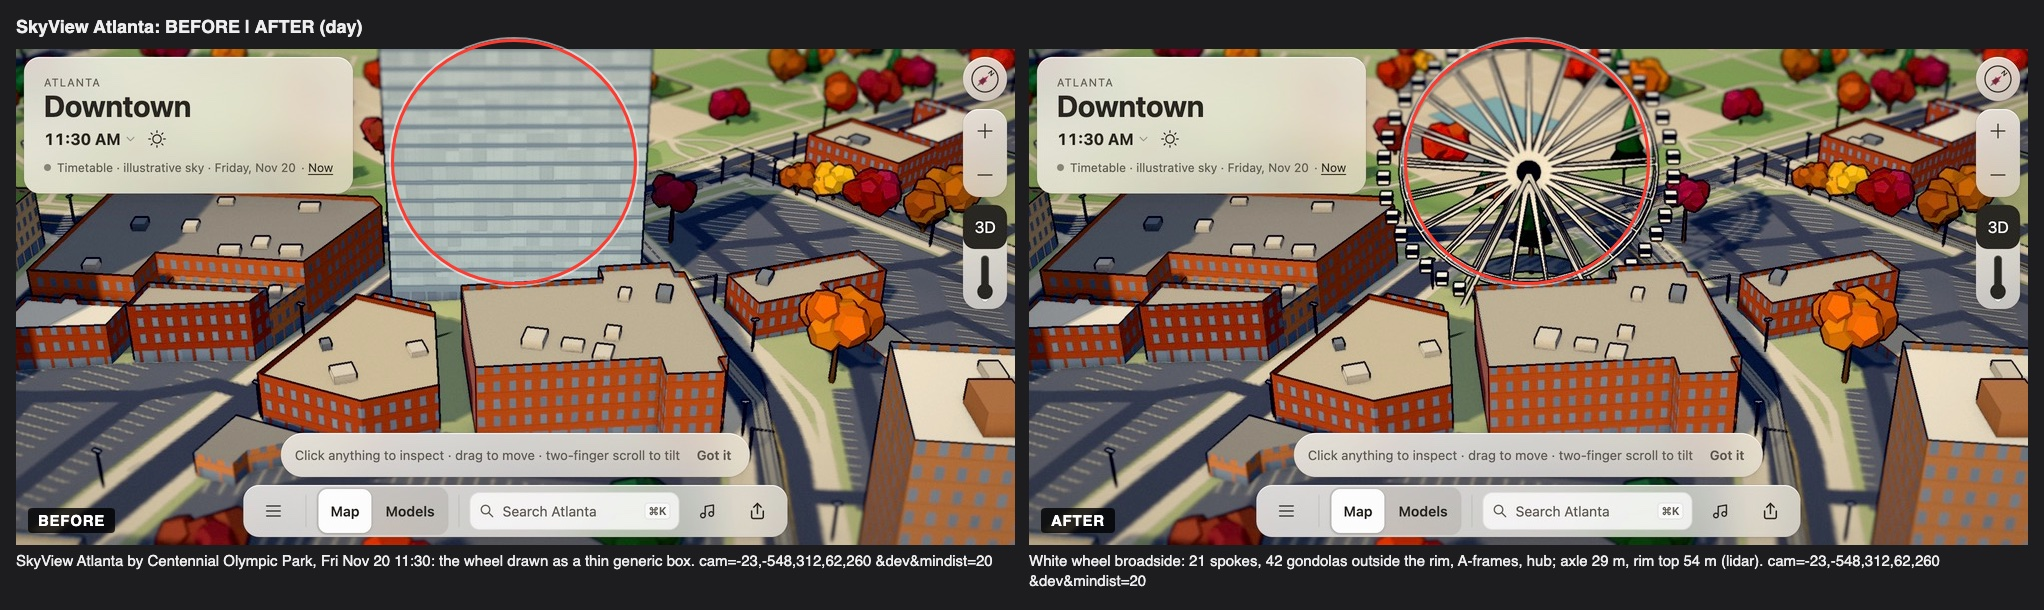
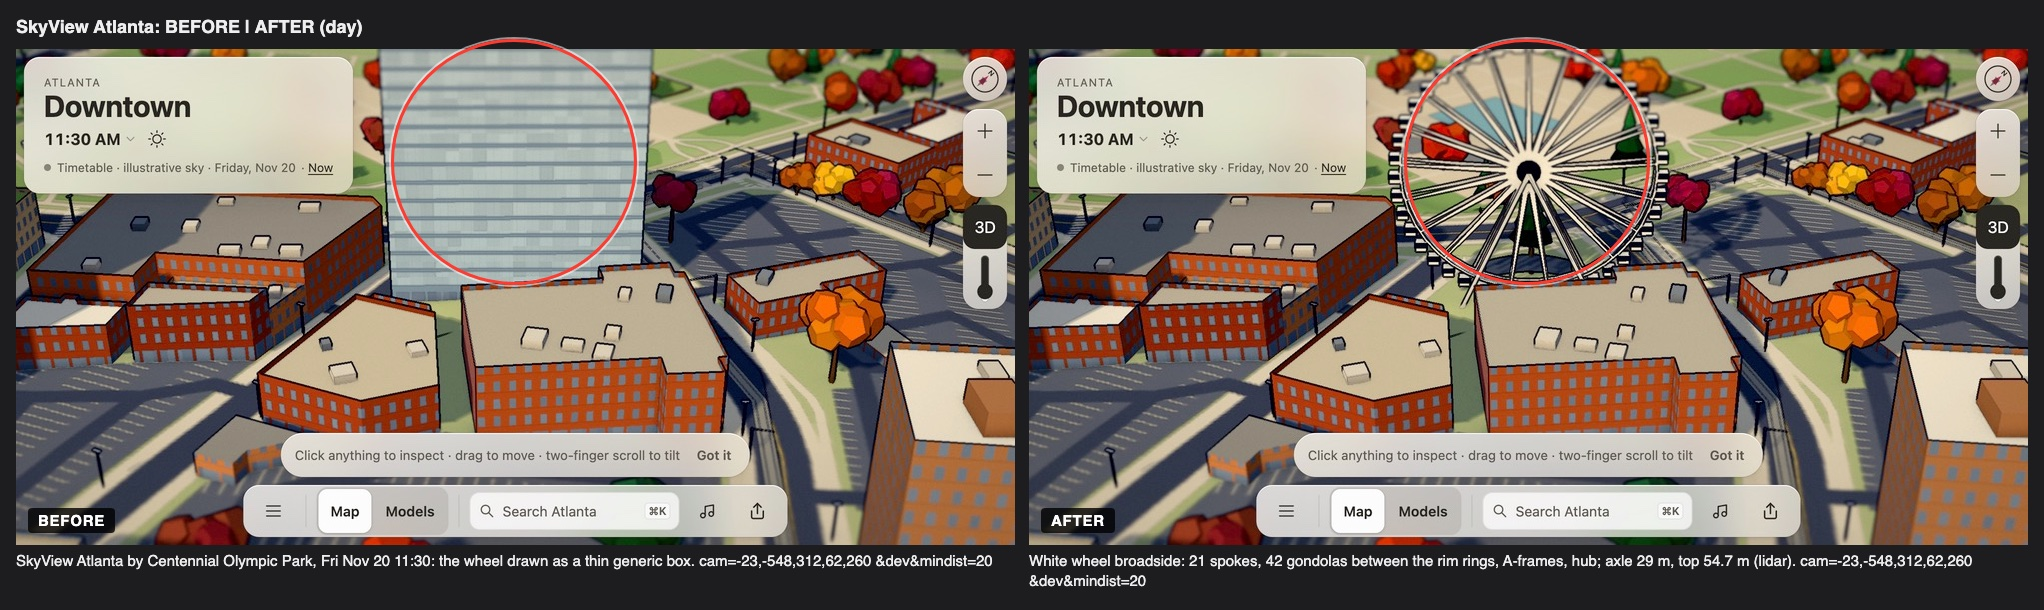
SkyView four-side sheet and captures after the gondola fix

Changed region(s): [[0.6473, 0.0623, 0.863, 0.4984], [0.6473, 0.9033, 0.9863, 0.9344]]

diff --git a/web/src/city/skyview-atlanta.ts b/web/src/city/skyview-atlanta.ts
@@ -13,8 +13,7 @@ import { landmarkShell } from './landmark-shell';
 //   the wheel faces the park broadside.
 // - Height: the 2019 lidar profile along that plane traces the rim's circle,
 //   with the axle about 29 m up and the rim top near 54 m. The official
-//   "200 ft" counts the site and gondolas. Thin tubes under-sample in lidar, so
-//   gondola tops are allowed to reach about 57 m.
+//   "200 ft" counts the site. Gondola tops reach 54.7 m, at the lidar top.
 // - Night: LEDs, lit each evening from one show console with colours that vary.
 //   City uses the blue-violet seen in 2018–2020 photographs on rim and spokes,
 //   leaves the gondolas dark, and does not animate the wheel.

diff --git a/docs/skyview-atlanta.md b/docs/skyview-atlanta.md
@@ -22,7 +22,7 @@
 - **Wheel:** a 25 m-radius wheel with its axle at 29 m, in the mapped plane.
 - **Rim:** a two-ring rim 3.2 m deep, as two ribbons with an outer band, in 42 segments.
 - **Spokes:** 21 tapered spokes on each face, converging on a dark hub.
-- **Gondolas:** 42 white capsules with dark glass bands. Each hangs below a pivot 3.2 m outside the rim, so at the top it rides above the rim and its roof reaches about 57 m.
+- **Gondolas:** 42 white capsules with dark glass bands, hung between the two rim rings from pivots 1 m outside the rim. At the top a capsule rides just above the rim to 54.7 m, matching the lidar's 54.5 m top return. At the bottom its floor clears the boarding deck by 0.7 m.
 - **Supports:** two white tubular A-frames, one on each side of the wheel, from the ground to the axle.
 - **Base:** a boarding deck under an arched canopy on the street side.
 - **Not drawn:** cross-cables, the stair truss, the "ATLANTA" hub sign and the VIP gondola's black finish. They are too fine or not worth the triangles.
@@ -39,3 +39,4 @@ The LED show runs nightly, but its colours vary: purple-blue with a white rim be
 | Broadside, before and after, 11:30 | `cam=-23,-548,312,62,260` with `&dev&mindist=20` | [compare-day.jpg](log/ui/skyview-atlanta/compare-day.jpg) |
 | Same, 23:30 | same | [compare-night.jpg](log/ui/skyview-atlanta/compare-night.jpg) |
 | From over the park, day and night | `cam=-23,-548,140,58,420` | [park-day-night.jpg](log/ui/skyview-atlanta/park-day-night.jpg) |
+| Four sides by day, about 400 m (checked for floating, missing or z-fighting parts: none) | N `-23,-593,0,60,400` · E `22,-548,90,60,400` · S `-23,-503,180,60,400` · W `-68,-548,270,60,400` | [four-side.jpg](log/ui/skyview-atlanta/four-side.jpg) |
